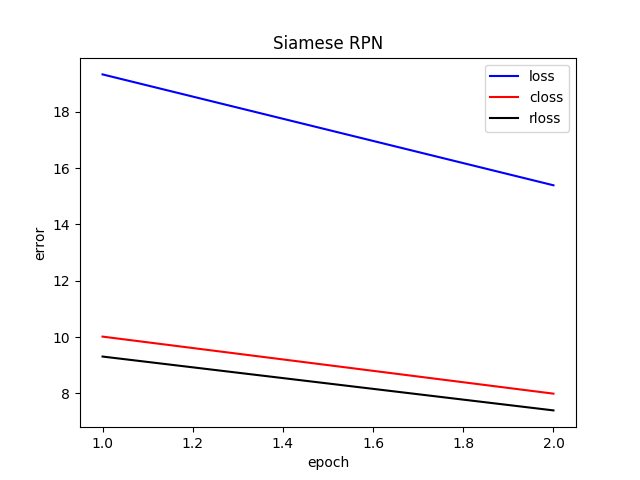
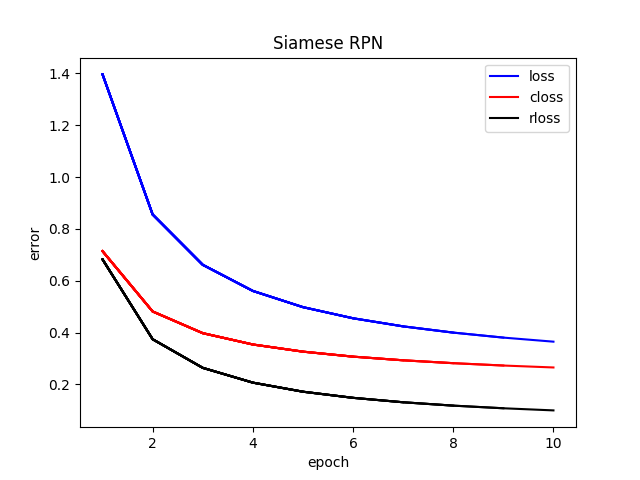
Update

diff --git a/tracking/run_tracking.py b/tracking/run_tracking.py
@@ -9,7 +9,7 @@ parser = argparse.ArgumentParser(description='PyTorch SiameseRPN Tracking')
 
 parser.add_argument('--tracker_path', default='/home/arbi/desktop/GOT-10k', metavar='DIR',help='path to dataset')
 parser.add_argument('--experiment_name', default='default', metavar='DIR',help='path to weight')
-parser.add_argument('--net_path', default='../train/experiments/default/model/model_e2.pth', metavar='DIR',help='path to weight')
+parser.add_argument('--net_path', default='../train/experiments/default/model/model_e10.pth', metavar='DIR',help='path to weight')
 # ../train/experiments/default/model/model_e1.pth # ../model.pth #../model_e25.pth
 parser.add_argument('--visualize', default=True, help='visualize')
 

diff --git a/train/config.py b/train/config.py
@@ -20,7 +20,7 @@ class Config(object):
     '''config for train_siamrpn.py'''
     epoches = 20
     train_epoch_size = 100000
-    lr = 1e-8
+    lr = 1e-6
 
     weight_decay = 0.0005
     momentum = 0.9
